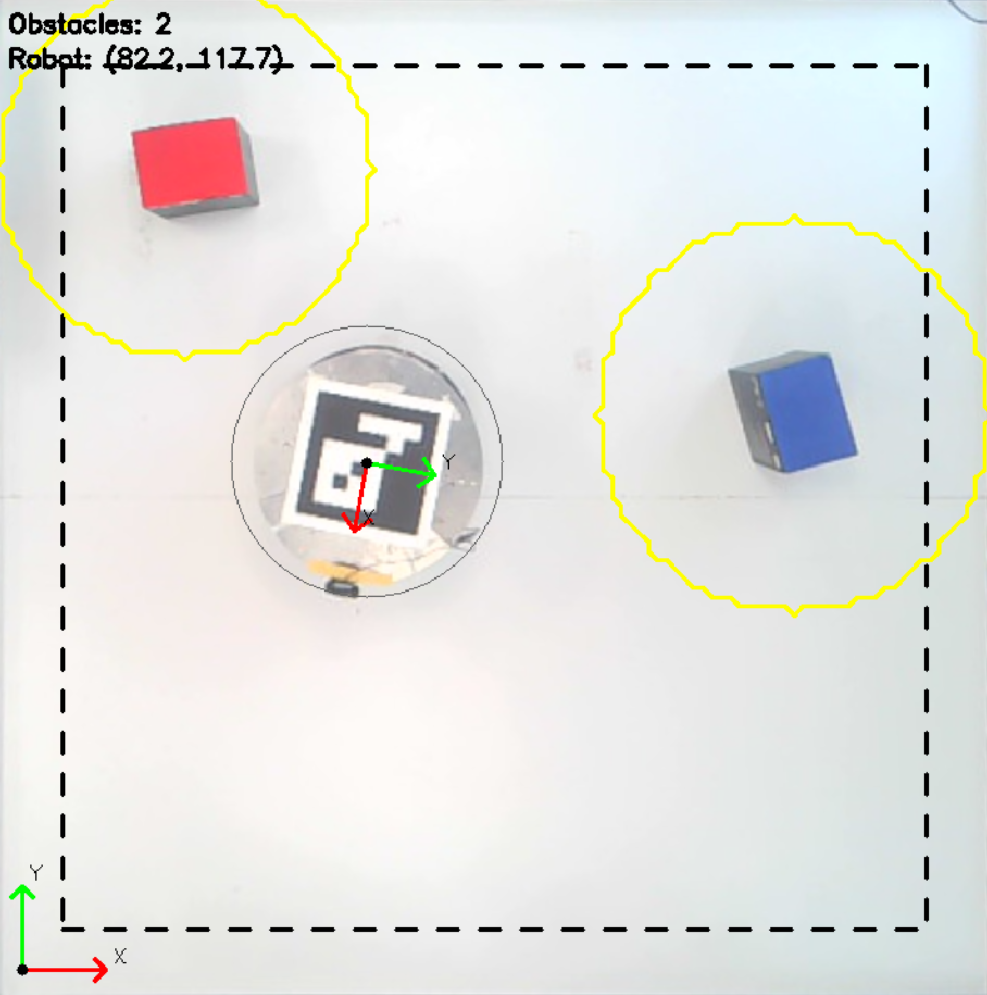
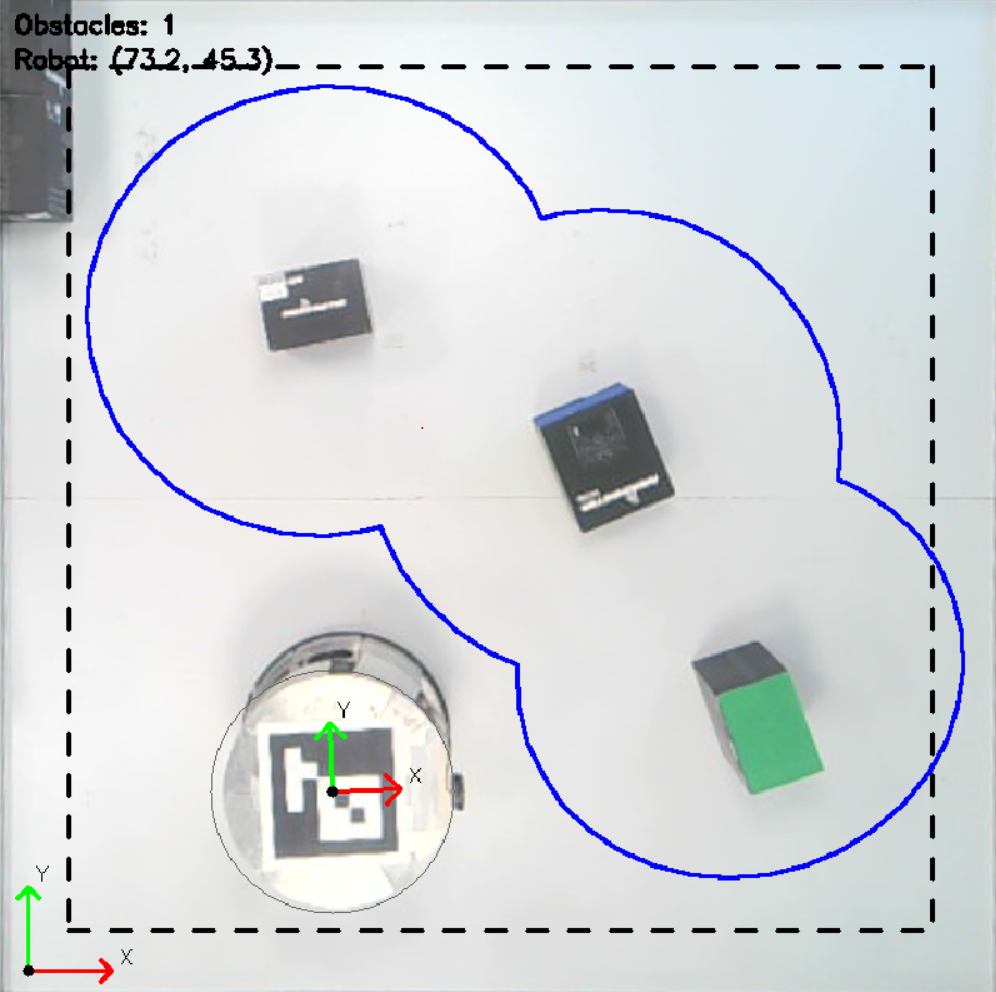
жадный лох

diff --git a/planners/dijkstra_planner.py b/planners/dijkstra_planner.py
@@ -2,6 +2,8 @@ import cv2
 import numpy as np
 from typing import List, Tuple
 import math
+import heapq
+
 
 def create_planner(field_width: float, field_height: float, step: float,
                    robot_radius: float, obstacle_safety: float,
@@ -25,6 +27,7 @@ def create_planner(field_width: float, field_height: float, step: float,
         'current_goal': None
     }
     return planner
+
 
 def update_obstacles(planner: dict, obstacles: List[dict]):
     planner['obstacles'] = obstacles
@@ -68,10 +71,12 @@ def update_obstacles(planner: dict, obstacles: List[dict]):
                     grid_points = np.array(grid_points, dtype=np.int32)
                     cv2.fillPoly(planner['obstacle_map'], [grid_points], 1)
 
+
 def reset_path(planner: dict):
     planner['path'] = []
     planner['path_locked'] = False
     planner['current_goal'] = None
+
 
 def is_cell_safe(planner: dict, grid_x: int, grid_y: int) -> bool:
     if not (0 <= grid_x < planner['grid_width'] and 0 <= grid_y < planner['grid_height']):
@@ -91,10 +96,12 @@ def is_cell_safe(planner: dict, grid_x: int, grid_y: int) -> bool:
 
     return True
 
-def heuristic(x: int, y: int, goal_x: int, goal_y: int, step: float) -> float:
-    dx = (x - goal_x) * step
-    dy = (y - goal_y) * step
-    return math.hypot(dx, dy)
+
+def get_step_cost(dx: int, dy: int, step: float) -> float:
+    if dx != 0 and dy != 0:
+        return math.sqrt(2) * step
+    return step
+
 
 def world_to_grid(planner: dict, x: float, y: float) -> Tuple[int, int]:
     step = planner['step']
@@ -104,15 +111,17 @@ def world_to_grid(planner: dict, x: float, y: float) -> Tuple[int, int]:
     grid_y = max(0, min(grid_y, planner['grid_height'] - 1))
     return grid_x, grid_y
 
+
 def grid_to_world(planner: dict, grid_x: int, grid_y: int) -> Tuple[float, float]:
     step = planner['step']
     return (grid_x + 0.5) * step, (grid_y + 0.5) * step
+
 
 def interpolate_path(path: List[Tuple[float, float]], step: float) -> List[Tuple[float, float]]:
     if len(path) < 2:
         return path
 
-    interpolation_step = step / 2  # 1 см между точками (при step=2)
+    interpolation_step = step / 2
     interpolated = []
 
     for i in range(len(path) - 1):
@@ -135,6 +144,7 @@ def interpolate_path(path: List[Tuple[float, float]], step: float) -> List[Tuple
     interpolated.append(path[-1])
     return interpolated
 
+
 def smooth_path(path: List[Tuple[float, float]], factor: float = 0.3) -> List[Tuple[float, float]]:
     if len(path) < 3:
         return path
@@ -146,14 +156,12 @@ def smooth_path(path: List[Tuple[float, float]], factor: float = 0.3) -> List[Tu
         curr = path[i]
         nxt = path[i + 1]
 
-        # Проверяем, лежат ли три точки на одной прямой
         cross = abs((curr[1] - prev[1]) * (nxt[0] - curr[0]) -
                     (curr[0] - prev[0]) * (nxt[1] - curr[1]))
 
-        if cross < 0.5:  # Почти прямая линия
+        if cross < 0.5:
             smoothed.append(curr)
         else:
-            # Сглаживаем угол
             smooth_x = curr[0] * (1 - factor) + (prev[0] + nxt[0]) / 2 * factor
             smooth_y = curr[1] * (1 - factor) + (prev[1] + nxt[1]) / 2 * factor
             smoothed.append((smooth_x, smooth_y))
@@ -165,6 +173,7 @@ def smooth_path(path: List[Tuple[float, float]], factor: float = 0.3) -> List[Tu
 def find_path(planner: dict, start: Tuple[float, float], goal: Tuple[float, float]) -> List[Tuple[float, float]]:
     if planner.get('path_locked', False) and planner.get('current_goal') == goal:
         return planner['path']
+
     planner['path_locked'] = False
 
     start_grid = world_to_grid(planner, start[0], start[1])
@@ -182,58 +191,58 @@ def find_path(planner: dict, start: Tuple[float, float], goal: Tuple[float, floa
              (0, -1), (0, 1),
              (1, -1), (1, 0), (1, 1)]
 
-    visited = set()
+    INF = float('inf')
+    dist = {}
     parent = {}
-    current = (start_grid[0], start_grid[1])
-    visited.add(current)
 
-    max_iterations = planner['grid_width'] * planner['grid_height']
-    iterations = 0
+    start_node = (start_grid[0], start_grid[1])
+    dist[start_node] = 0
+    pq = [(0, start_grid[0], start_grid[1])]
 
-    while current != (goal_grid[0], goal_grid[1]) and iterations < max_iterations:
-        iterations += 1
-        x, y = current
+    while pq:
+        current_dist, x, y = heapq.heappop(pq)
+        current = (x, y)
 
-        best_neighbor = None
-        best_h = float('inf')
+        if current == (goal_grid[0], goal_grid[1]):
+            path = []
+            curr = current
+            while curr in parent:
+                path.append(grid_to_world(planner, curr[0], curr[1]))
+                curr = parent[curr]
+            path.append(grid_to_world(planner, start_grid[0], start_grid[1]))
+            path.reverse()
+
+            path = interpolate_path(path, planner['step'])
+            path = smooth_path(path, factor=0.3)
+
+            planner['path'] = path
+            planner['path_locked'] = True
+            planner['current_goal'] = goal
+            return path
+
+        if current_dist > dist.get(current, INF):
+            continue
 
         for dx, dy in moves:
             nx, ny = x + dx, y + dy
-            if (0 <= nx < planner['grid_width'] and 0 <= ny < planner['grid_height'] and
-                    (nx, ny) not in visited and is_cell_safe(planner, nx, ny)):
+            neighbor = (nx, ny)
 
-                h = heuristic(nx, ny, goal_grid[0], goal_grid[1], planner['step'])
-                if h < best_h:
-                    best_h = h
-                    best_neighbor = (nx, ny)
+            if not (0 <= nx < planner['grid_width'] and 0 <= ny < planner['grid_height']):
+                continue
+            if not is_cell_safe(planner, nx, ny):
+                continue
 
-        if best_neighbor is None:
-            print(" Тупик")
-            return []
+            step_cost = get_step_cost(dx, dy, planner['step'])
+            new_dist = current_dist + step_cost
 
-        parent[best_neighbor] = current
-        visited.add(best_neighbor)
-        current = best_neighbor
-
-    if current == (goal_grid[0], goal_grid[1]):
-        path = []
-        curr = current
-        while curr in parent:
-            path.append(grid_to_world(planner, curr[0], curr[1]))
-            curr = parent[curr]
-        path.append(grid_to_world(planner, start_grid[0], start_grid[1]))
-        path.reverse()
-
-        path = interpolate_path(path, planner['step'])
-        path = smooth_path(path, factor=0.3)
-
-        planner['path'] = path
-        planner['path_locked'] = True
-        planner['current_goal'] = goal
-        return path
+            if new_dist < dist.get(neighbor, INF):
+                dist[neighbor] = new_dist
+                parent[neighbor] = current
+                heapq.heappush(pq, (new_dist, nx, ny))
 
     print(" Путь не найден")
     return []
+
 
 def get_velocities(planner: dict, current_x: float, current_y: float,
                    max_speed: float, kp: float, acc_speed_error: float) -> Tuple[float, float]:
@@ -275,6 +284,7 @@ def get_velocities(planner: dict, current_x: float, current_y: float,
 
     return vx, -vy
 
+
 def draw_planning_contours(planner: dict, frame: np.ndarray) -> np.ndarray:
     for obs in planner['obstacles']:
         if 'expanded_contour' in obs:
@@ -283,8 +293,9 @@ def draw_planning_contours(planner: dict, frame: np.ndarray) -> np.ndarray:
                 cv2.polylines(frame, [expanded_contour], True, (255, 0, 0), 2)
     return frame
 
+
 def draw_path_on_frame(planner: dict, frame: np.ndarray, path: List[Tuple[float, float]],
-                       color: Tuple[int, int, int] = (255, 0, 255)) -> np.ndarray:
+                       color: Tuple[int, int, int] = (0, 255, 0)) -> np.ndarray:
     if not path or len(path) < 2:
         return frame
 

diff --git a/video.py b/video.py
@@ -401,8 +401,9 @@ def process_camera_feed(camera_id: int = 0, single_frame: bool = False):
             real_x, real_y = transform_coordinates(x, y)
             user_point_real = (real_x, real_y)
             current_path = None
+            current_path = None
             if planner:
-                from planners.greedy_planner import reset_path
+                from planners.dijkstra_planner import reset_path
                 reset_path(planner)
             print(f"\nНовая цель: ({real_x:.1f}, {real_y:.1f})")
 
@@ -412,7 +413,7 @@ def process_camera_feed(camera_id: int = 0, single_frame: bool = False):
     paused = False
     _state['robot_trajectory'] = []
 
-    from planners.greedy_planner import (
+    from planners.dijkstra_planner import (
         create_planner, update_obstacles, draw_planning_contours,
         find_path, draw_path_on_frame
     )
@@ -478,7 +479,7 @@ def process_camera_feed(camera_id: int = 0, single_frame: bool = False):
                         user_point = None
                         current_path = None
                         if planner:
-                            from planners.greedy_planner import reset_path
+                            from planners.dijkstra_planner import reset_path
                             reset_path(planner)
                 else:
                     # Если нет пути, строим новый

diff --git a/main.py b/main.py
@@ -63,7 +63,7 @@ def mode_robot():
     current_robot_pos = None
     current_path = None  # Сохраняем текущий путь
 
-    from planners.greedy_planner import (
+    from planners.dijkstra_planner import (
         create_planner, update_obstacles, draw_planning_contours,
         find_path, draw_path_on_frame, get_velocities, reset_path
     )

diff --git a/planners/__init__.py b/planners/__init__.py
@@ -1,1 +1,1 @@
-from .greedy_planner import create_planner as greedy_planner
+from .dijkstra_planner import create_planner as dijkstra_planner
